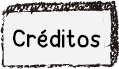
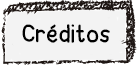
Aumentados os botoes

diff --git a/css/style.css b/css/style.css
@@ -272,7 +272,7 @@ p
 
 #btnJogar
 {
-	width: 117px;
+	width: 137px;
 	height: 65px;
 	background-image: url("../imgs/btnJogar.png");
 	margin: 1.5rem;
@@ -303,8 +303,8 @@ p
 
 #btnCreditos
 {
-	width: 119px;
-	height: 69px;
+	width: 137px;
+	height: 65px;
 	background-image: url("../imgs/btnCreditos.png");
 	margin: 1.5rem;
 }
